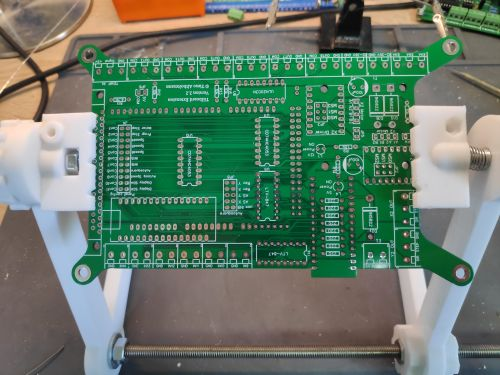
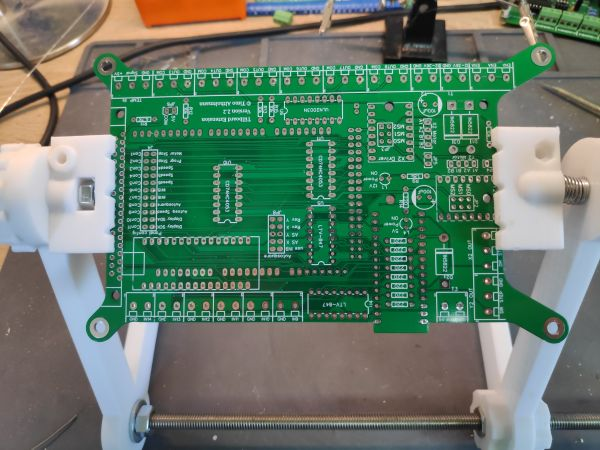
GitBook: [master] 3 pages and 19 assets modified

diff --git a/tillboard-extension/platine.md b/tillboard-extension/platine.md
@@ -236,7 +236,52 @@ Damit man immer gut an die Bauteile ran kommt, kann ich nur empfehlen sich von d
 | ![](../.gitbook/assets/pcb_build_4.jpg)  | ![](../.gitbook/assets/pcb_build_9.jpg)  |
 | ![](../.gitbook/assets/ic_sockel_arrow.jpg)  | Beim Löten der IC-Sockel sollte unbedingt auf die richtige Richtung geachtet werden. Die Kerben sollten übereinander liegen, wie hier auf dem Bild zu sehen. |
 | ![](../.gitbook/assets/ic_arrow.jpg)  | Die ICs werden ebenfalls so eingesteckt, dass die Kerben übereinander liegen. Manche ICs haben einen Punkt anstatt einer Kerbe. Dann muss halt der Punkt über der Kerbe des Sockels liegen |
-|  |  |
+| ![](../.gitbook/assets/pcb_build_11.jpg)  | ![](../.gitbook/assets/pcb_build_12.jpg)  |
 
-  
+![](../.gitbook/assets/pcb_build_14.jpg)
+
+{% hint style="info" %}
+Die Beinchen der Widerstände und LEDs noch nicht wegschmeißen. Die können für das Panel später noch verwendet werden.
+{% endhint %}
+
+|  |  |
+| :--- | :--- |
+| ![](../.gitbook/assets/pcb_build_15.jpg)  | Der Male Header für den Arduino Mega werden auf die andere Seite gelötet. Der Arduino Mega ist damt quasi unter der Platine. |
+| ![](../.gitbook/assets/pcb_build_16.jpg)  | ![](../.gitbook/assets/pcb_build_17.jpg)  |
+| ![](../.gitbook/assets/pcb_build_18.jpg)  | Die Board Spacer werden ebenfalls nach unten angebracht und werden später in die Anschlüsse für den Arduino Nano des Tillboards gesteckt. |
+| ![](../.gitbook/assets/pcb_build_20.jpg)  | ![](../.gitbook/assets/pcb_build_21.jpg)  |
+| ![](../.gitbook/assets/pcb_build_22.jpg)  | Die Terminals können zusammen gesteckt werden und dann in eins angebracht werden. Daher ist es eigentlich auch egal, ob man die 3er oder 2er Terminals nutzt. Wenn viele inander gesteckt werden kann es sein, dass man die auf dem Board ein wenig drücken muss, damit die in die Löcher passen. |
+| ![](../.gitbook/assets/pcb_build_23.jpg)  | ![](../.gitbook/assets/pcb_build_25.jpg)  |
+
+![](../.gitbook/assets/pcb_build_26.jpg)
+
+|  |  |
+| :--- | :--- |
+| ![](../.gitbook/assets/pcb_build_34.jpg)  |  Auf der Unterseite der Platine befindet sich noch ein 5V Anschluss für einen 40x40mm Lüfter, den man dort optional installieren kann. Generell sollte der ganze Aufbau gut gekühlt werden. Der kleine Lüfter wird dafür nicht ausreichen. |
+
+### Test
+
+Nach dem ganzen Löten und zusammenbauen wollen wir die Platine erstmal testen, bevor wir Strom darauf geben. 
+
+{% hint style="danger" %}
+Zu diesem Zeitpunkt noch nicht den Arduino Nano einstecken! Dieser braucht vorher die richtige Firmware!
+{% endhint %}
+
+1. Dazu nehmen wir unser Messgerät und überprüfen einmal, ob wir irgendwo einen offensichtlichen "kurzen" haben, indem wir eine Durchgangsprüfung beim Terminal vom Temperatur Sensor machen. Also eine Leitung dort auf GND und die andere auf 5V. Hier sollte natürlich kein Durchgang sein.
+2. Dann können wir einmal 5V auf das Board geben und schauen, ob die LED leuchtet. Das geht am besten an dem Terminal für 5V in.
+3. Als Nächstes kann 12-36V angeschlossen werden. Die andere LED sollte aufleuchten.
+4. Wenn bis hier hin nichts abgeraucht ist, kann die Platine aufs Tillboard aufgesteckt werden und mit dem zweiten 12-36V Terminal kann man auch das Tillboard mit Strom versorgen.
+
+### Anschluss
+
+|  |  |
+| :--- | :--- |
+| ![](../.gitbook/assets/pcb_build_36.jpg)  | Ich habe die beiden Boards hier provisorisch mit Schrauben und Muttern befestigt. Allerdings wird man beim Einbau in den Schaltkasten eher eine lange Schraube mit Abstandshaltern benötigen. |
+
+{% hint style="warning" %}
+Immernoch nicht den Arduino Nano einstecken! Das machen wir im nächsten Kapitel
+{% endhint %}
+
+Wenn die LEDs nach dem Verbinden der Boards entsprechend Leuchten und alles gut aussieht kann man den Arduino Mega mit dem PC verbinden prüfen, ob auch mit Estlcam alles läuft. Hier muss in der Steuerung nun Arduino Mega aus der Liste ausgewählt werden.   
+Hat man die Treiber ebenfalls angeschlossen kann man schon testen, ob alles richtig verfährt.
 

diff --git a/tillboard-extension/arduino-nano.md b/tillboard-extension/arduino-nano.md
@@ -1,0 +1,51 @@
+# Arduino Nano
+
+Der Arduino Nano ist auf der Extension Platine für das Autosquaring und Auslesen der Temperatur Sensoren verantwortlich. 
+
+{% hint style="info" %}
+Braucht man weder Autosquaring noch Temperatur Fühler kann der Arduino Nano auch weggelassen werden. Das Board mit Bedienpanel funktioniert trotzdem.
+{% endhint %}
+
+## Firmware
+
+Die Firmware kann hier heruntergeladen werden. Diese muss dann mit der Arduino Software aufgespielt werden. Danach kann der Arduino bedenkenlos in die Extension Platine eingesetzt werden.
+
+Benötige Libraries\(Können in der Arduino IDE unter Sketch → Bibliothek einbinden → Bibliotheken verwalten hinzugefügt werden\):
+
+* [U8X8 von Olikraus](https://github.com/olikraus/u8g2/)
+
+{% file src="../.gitbook/assets/extension\_board\_firmware\_v1.0.zip" caption="Extension Board Firmware v1.0" %}
+
+### Anpassungen / Einstellungen
+
+In den ersten Zeilen der Firmware können noch Einstellungen vorgenommen werden, sofern das gewünscht ist. Hier ist eigentlich alles mit Kommentaren erklärt.
+
+```text
+// Programm configuration
+uint16_t stepDelay = 0; // delay between steps in microseconds if no poti is connected - set to 0 to use a poti for setting speed
+uint16_t startDelay = 1000; // delay betwenn pressing the autosquare button and starting autosquare in miliseconds, should be at least 500 
+byte speedPotiSamples = 10; // Samples of every speed poti reading
+uint16_t speedPotiMin = 10;  // min delay between steps in microseconds
+uint16_t speedPotiMax = 5000; // min delay between steps in microseconds
+```
+
+### Anschluss der Endstopps
+
+Für das Autosquaring braucht jeder Stepper Motor einen eigenen Endstopp Schalter. Diese müssen wie folgt angeschlossen werden:
+
+| Eingang | Achse |
+| :--- | :--- |
+| IN5 | X1 |
+| IN6 | X2 |
+| IN7 | Y1 |
+| IN8 | Y2 |
+
+
+
+## Autosquaring
+
+Der Arduino Nano übernimmt die Kontrolle über die Stepper Motoren, wenn der Autosquaring Knopf/Taster gedrückt wird. Das Ganze hat eine Zeitverzögerung, damit man nicht direkt alle Achseneinstellungen unbrauchbar macht, wenn man da zufällig mal dran kommt. Bedeutet man drückt den Taster, wartet kurz und dann beginnt das Autosquaring. Für welche Achsen Autosquaring durchgeführt werden soll und die Drehrichtung lassen sich über Jumper konfigurieren. Man muss den Taster so lange gedrückt halten, bis alle Endstopps angefahren wurden.  
+Der aktuelle Status wird dabei über das Display ausgegeben.
+
+
+

diff --git a/SUMMARY.md b/SUMMARY.md
@@ -6,6 +6,7 @@
 
 * [Getting Started](tillboard-extension/getting-started.md)
 * [Platine](tillboard-extension/platine.md)
+* [Arduino Nano](tillboard-extension/arduino-nano.md)
 
 ## Extension Panel
 
